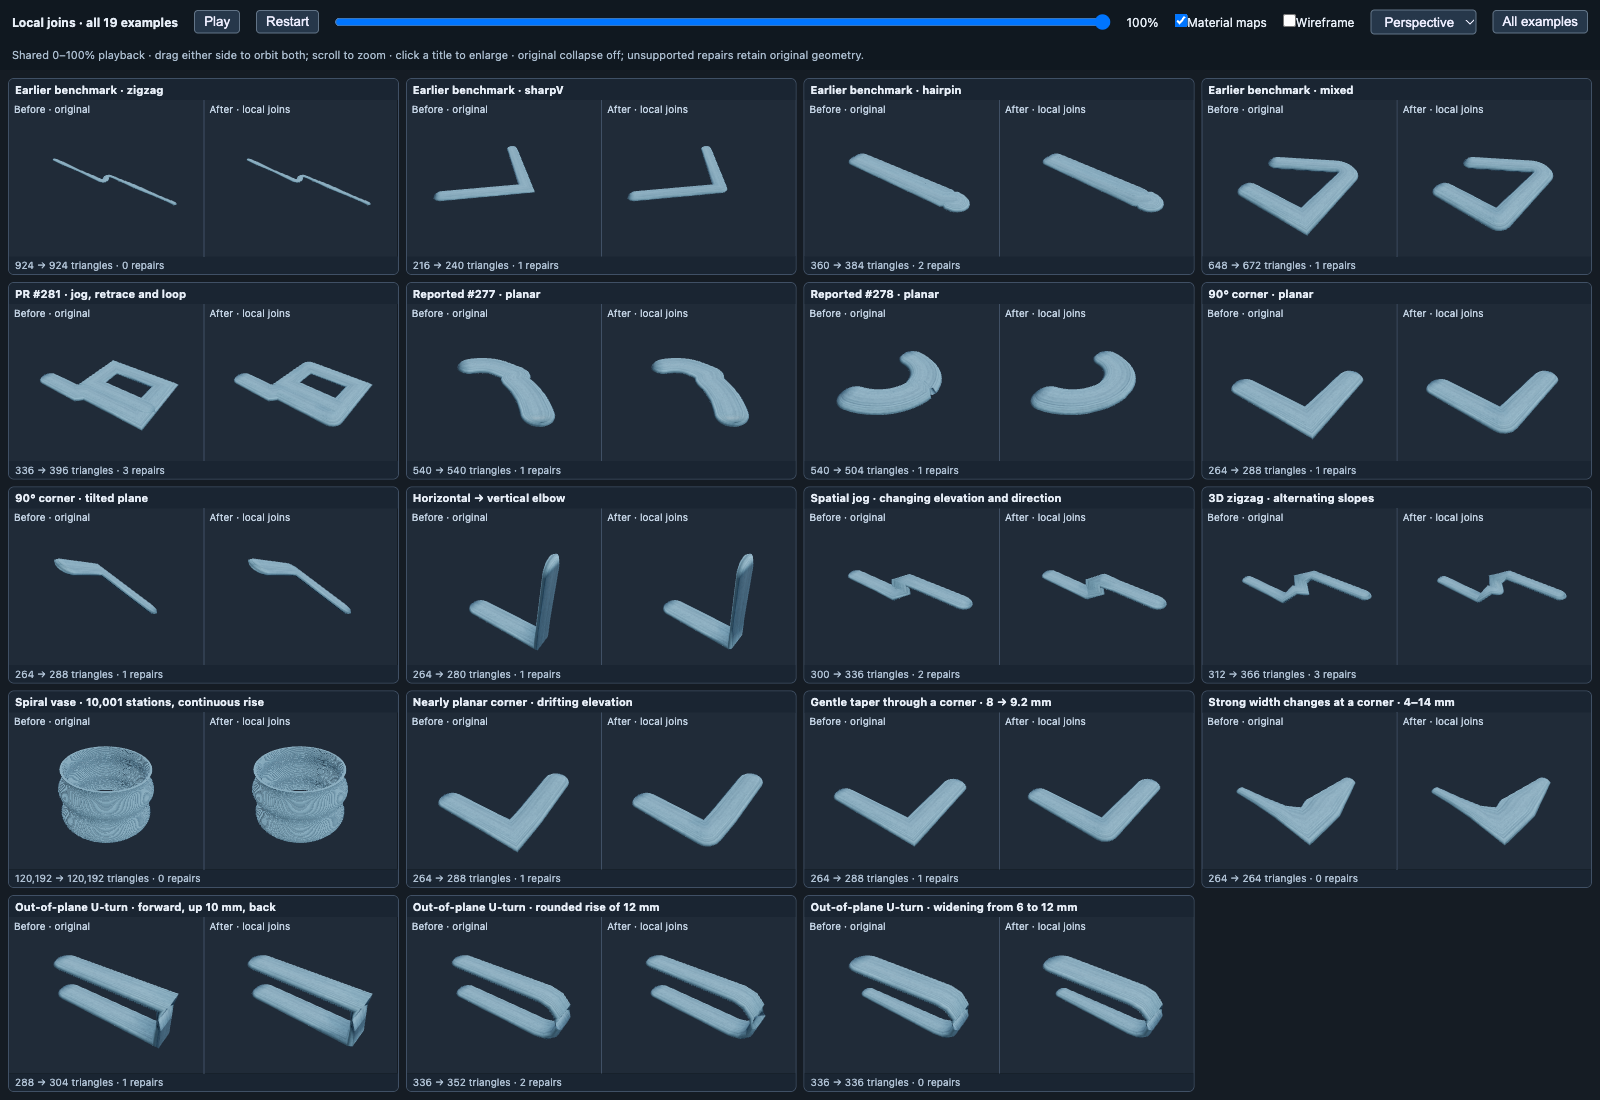
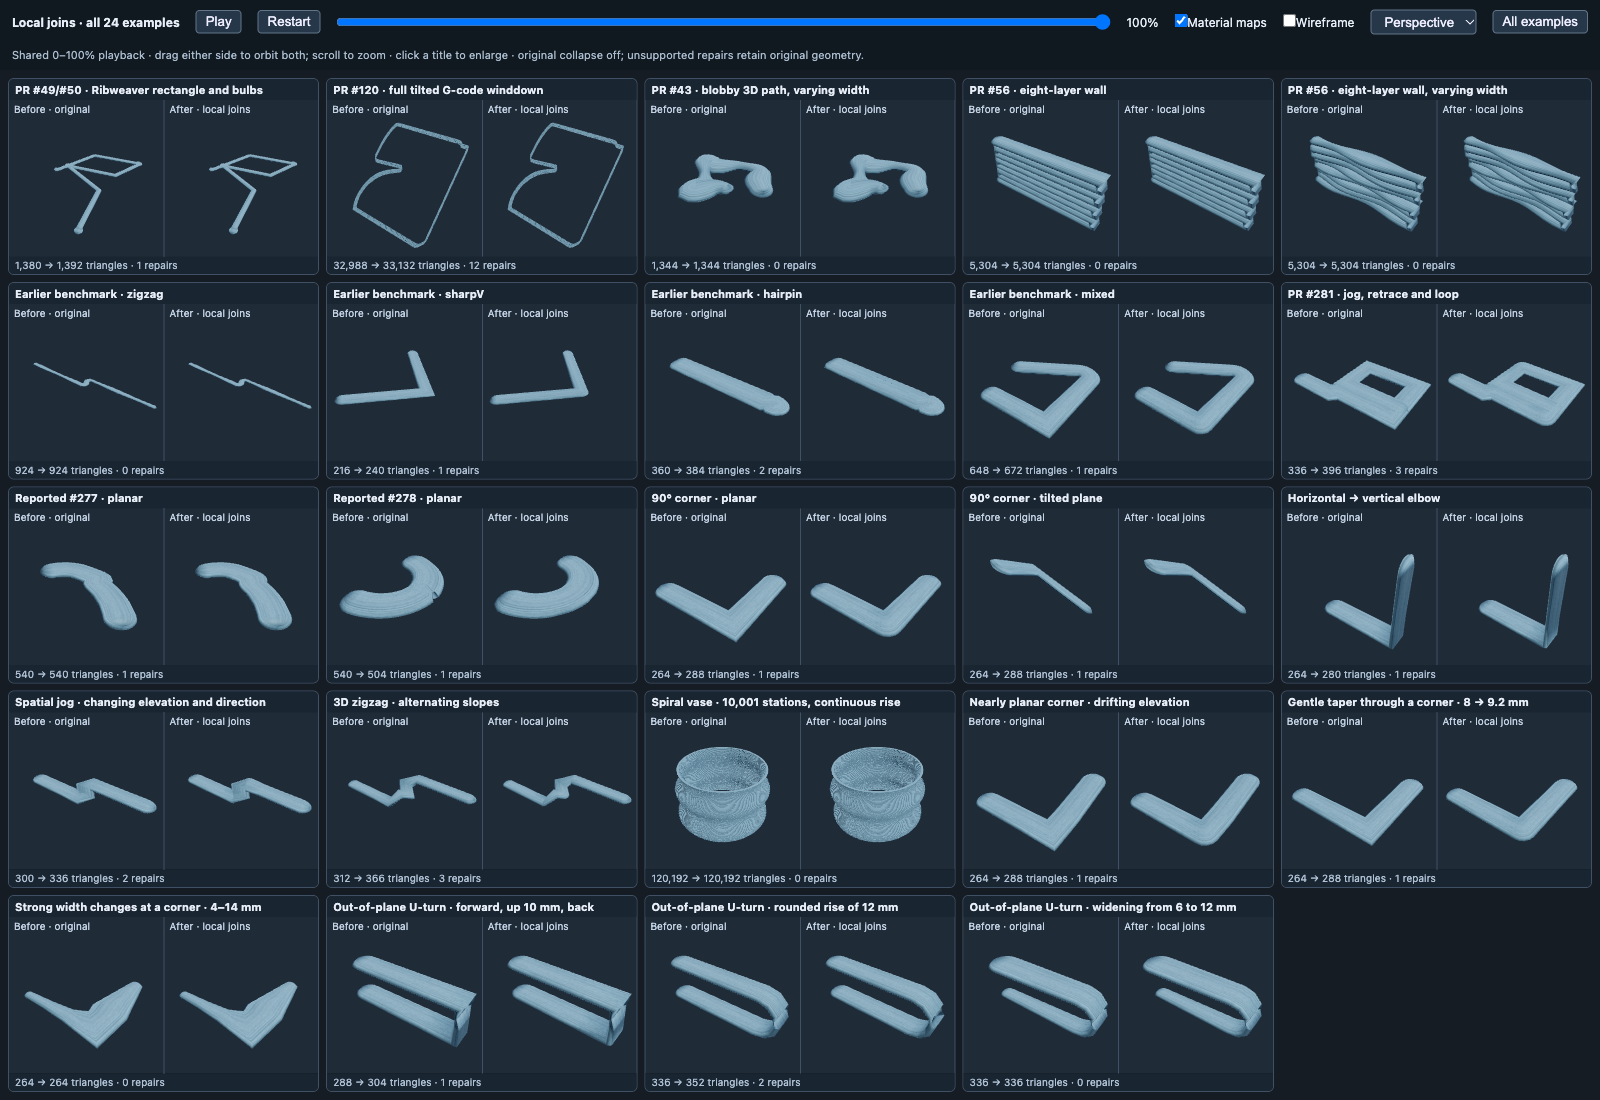
Restore complex historical toolpaths in the animated comparison gallery

diff --git a/bench/tube_lab/local_joins.py b/bench/tube_lab/local_joins.py
@@ -22,6 +22,26 @@ OUT = Path(__file__).parent / "out/local_joins"
 
 
 def scenes():
+    for name, title in [
+        ("pr49_bulbs", "PR #49/#50 · Ribweaver rectangle and bulbs"),
+        ("pr120_winddown", "PR #120 · full tilted G-code winddown"),
+        ("pr43_blobby", "PR #43 · blobby 3D path, varying width"),
+        ("pr56_wall_const", "PR #56 · eight-layer wall"),
+        ("pr56_wall_vary", "PR #56 · eight-layer wall, varying width"),
+    ]:
+        with np.load(Path(__file__).with_name("fixtures") / f"{name}.npz") as data:
+            yield dict(
+                name=name,
+                title=title,
+                spine=data["spine"],
+                w=data["widths"],
+                h=data["heights"],
+                up=data["up"].tolist(),
+                anchor=str(data["anchor"]),
+                breaks=data["breaks"],
+                lo=0,
+                hi=len(data["spine"]) - 1,
+            )
     # Exact generators used by the PR #279/#280 visual benchmark.
     from zr_metric import SCENES
 
@@ -314,6 +334,8 @@ def demo(maps):
                 section_values(s, "h"),
                 surface=surface,
                 up_vector=s["up"],
+                anchor=s.get("anchor", "center"),
+                break_before=s.get("breaks"),
                 lod=False,
                 texture=maps["color"],
                 normal_map=maps["normal"],
@@ -415,6 +437,8 @@ def run(selected=None):
                     section_values(s, "w"),
                     section_values(s, "h"),
                     up_vector=s["up"],
+                    anchor=s.get("anchor", "center"),
+                    break_before=s.get("breaks"),
                     lod=False,
                     surface=mode,
                     texture=maps["color"],
@@ -437,6 +461,11 @@ def run(selected=None):
             roi = spine[s["lo"] : s["hi"] + 1]
             centre = roi.mean(axis=0)
             extent = float(np.ptp(roi, axis=0).max() + float(np.max(s["w"])) * 3)
+            if name == "pr120_winddown":
+                # Dense wipe loops skew the station mean away from the full
+                # print's centre; fit the complete tilted raster, not its mean.
+                centre = (roi.min(axis=0) + roi.max(axis=0)) / 2
+                extent = float(np.linalg.norm(np.ptp(roi, axis=0)) * 1.1)
             page.evaluate(
                 """([t,d])=>{const v=window.threejsViewer;v._camera.position.set(t[0]+d*.75,t[1]-d,t[2]+d*.9);
              v._camera.up.set(0,0,1);v._controls.target.set(...t);v._camera.lookAt(v._controls.target);v._controls.update();

diff --git a/docs/local_tube_joins.md b/docs/local_tube_joins.md
@@ -52,6 +52,19 @@ The rounded U-turn previously accepted three patches and introduced a pronounced
 
 ### Reused earlier examples and synchronized overview
 
+
+The first five tiles are the recovered, more complex historical paths. Their inputs are frozen in [`bench/tube_lab/fixtures`](../bench/tube_lab/fixtures/README.md), with provenance and all original stations, widths, heights, up vectors, and anchors retained.
+
+| Earlier complex case | Stations | Original → local triangles | Repairs | Comparison |
+|---|---:|---:|---:|---|
+| #49/#50 Ribweaver rectangle and bulbs | 100 | 1,380 → 1,392 | 1 | [Screenshot](media/local_joins/pr49_bulbs_comparison.png) |
+| #120 full tilted G-code winddown | 2,734 | 32,988 → 33,132 | 12 | [Screenshot](media/local_joins/pr120_winddown_comparison.png) |
+| #43 blobby 3D path, variable width | 97 | 1,344 → 1,344 | 0 | [Screenshot](media/local_joins/pr43_blobby_comparison.png) |
+| #56 eight-layer wall | 427 | 5,304 → 5,304 | 0 | [Screenshot](media/local_joins/pr56_wall_const_comparison.png) |
+| #56 eight-layer wall, variable width | 427 | 5,304 → 5,304 | 0 | [Screenshot](media/local_joins/pr56_wall_vary_comparison.png) |
+
+These cases reveal limited repair coverage: the blobby shape and both wall variants remain unchanged, and most difficult bulb sites fall back. The #49 input is the historical reduced reproduction, not the full source dump. The #120 case includes the entire retained G-code snippet. No paths were resampled to make the algorithm look better. Historical per-station colors are replaced by the shared mapped comparison material because local joins do not support those colors.
+
 The gallery also uses the exact four scene generators from `bench/tube_lab/zr_metric.py`, previously used for PR #279/#280: rounded jittered zigzag with variable widths/heights, sharp V, tight hairpin, and mixed sparse corner/dense arc. The jog/retrace/loop path is copied from PR #281's `examples/39_planar_swept_union.py` at `05e85ef`. These compare the current original strip (collapse off) with local joins; they do not run the old PR renderers.
 
 | Historical path | Original → local triangles | Comparison |
@@ -64,7 +77,7 @@ The gallery also uses the exact four scene generators from `bench/tube_lab/zr_me
 
 The historical examples expose remaining limits: the smoothness gate leaves the zigzag's inner folds untouched, the tight hairpin still overlaps, and the retraced/overlapping sections of the PR #281 path are not unioned. A repair count is not a visual-quality score.
 
-`python bench/tube_lab/local_joins.py --demo-only` builds both interactive pages without capturing screenshots. Serve `bench/tube_lab/out/local_joins` and open `overview.html` for all **19 examples**, each with original and local joins side by side. All 38 objects share a 0–100% slider and looping playback (ten seconds printing, two seconds held at completion). Each pair shares a camera: drag either side to orbit, scroll to zoom, or select top/side/perspective. Click a title to enlarge that pair; Escape or “All examples” returns to the grid. Material-map and wireframe switches apply to every example. One WebGL context renders the whole grid with separate viewports.
+`python bench/tube_lab/local_joins.py --demo-only` builds both interactive pages without capturing screenshots. Serve `bench/tube_lab/out/local_joins` and open `overview.html` for all **24 examples**, each with original and local joins side by side. All 48 objects share a 0–100% slider and looping playback (ten seconds printing, two seconds held at completion). Each pair shares a camera: drag either side to orbit, scroll to zoom, or select top/side/perspective. Click a title to enlarge that pair; Escape or “All examples” returns to the grid. Material-map and wireframe switches apply to every example. One WebGL context renders the whole grid with separate viewports.
 
 ![All examples at 100%](media/local_joins/animated_overview.png)
 

diff --git a/bench/tube_lab/fixtures/README.md b/bench/tube_lab/fixtures/README.md
@@ -1,0 +1,29 @@
+# Historical toolpath fixtures
+
+These are frozen inputs recovered from the older PR demonstrations, not new
+synthetic replacements. `local_joins.py` uses every station and the original
+width/height arrays. NPZ keys are `spine`, `widths`, `heights`, `up`, `anchor`,
+and `breaks` (a break before that station).
+
+- `pr49_bulbs`: exact 100-station Ribweaver reproduction from `repro_min.py`
+  and `tools/capture_strand_collapse.py` used in PRs #49/#50. Original 100×
+  display scale and top anchoring retained. This is the historical reduced
+  reproduction, not the complete 13,165-station source dump.
+- `pr120_winddown`: all 2,734 stations of the A45 G-code snippet in the retained
+  `tmp/tube_lab/messy_toolpath_winddown.py`, used by `scene_winddown` in the
+  #120 investigation (`tmp/tube_lab/strand119.py`). Original parser and
+  extrusion-to-width calculation; 3 mm bead height, 45° up vector, top anchor,
+  original recentering. Stored here so the ignored temporary script is no
+  longer needed to reproduce the comparison.
+- `pr43_blobby`: the 97-station open Catmull–Rom path from
+  `examples/21_tube_corner_zfight.py` (introduced by commit `f38a2fd`, PR #43).
+  Original seed, control points, sampling, trim, arc-length Z ramp, and widths.
+- `pr56_wall_const` / `pr56_wall_vary`: the 427-station eight-layer walls from
+  `scenario_wall` in the retained #56 capture harness `tmp/tube_lab/capture.py`.
+  Original 0.1 sampling, 0.3 layer height, constant 0.8 width or sinusoidal
+  0.4–0.9 width. Comparison-display group offsets are omitted.
+
+Historical per-station colors are replaced by the shared comparison material,
+including color/normal/roughness maps. `local_join` does not support per-station
+colors. The before column uses the current original strip with collapse off;
+it does not run a historical viewer build.
